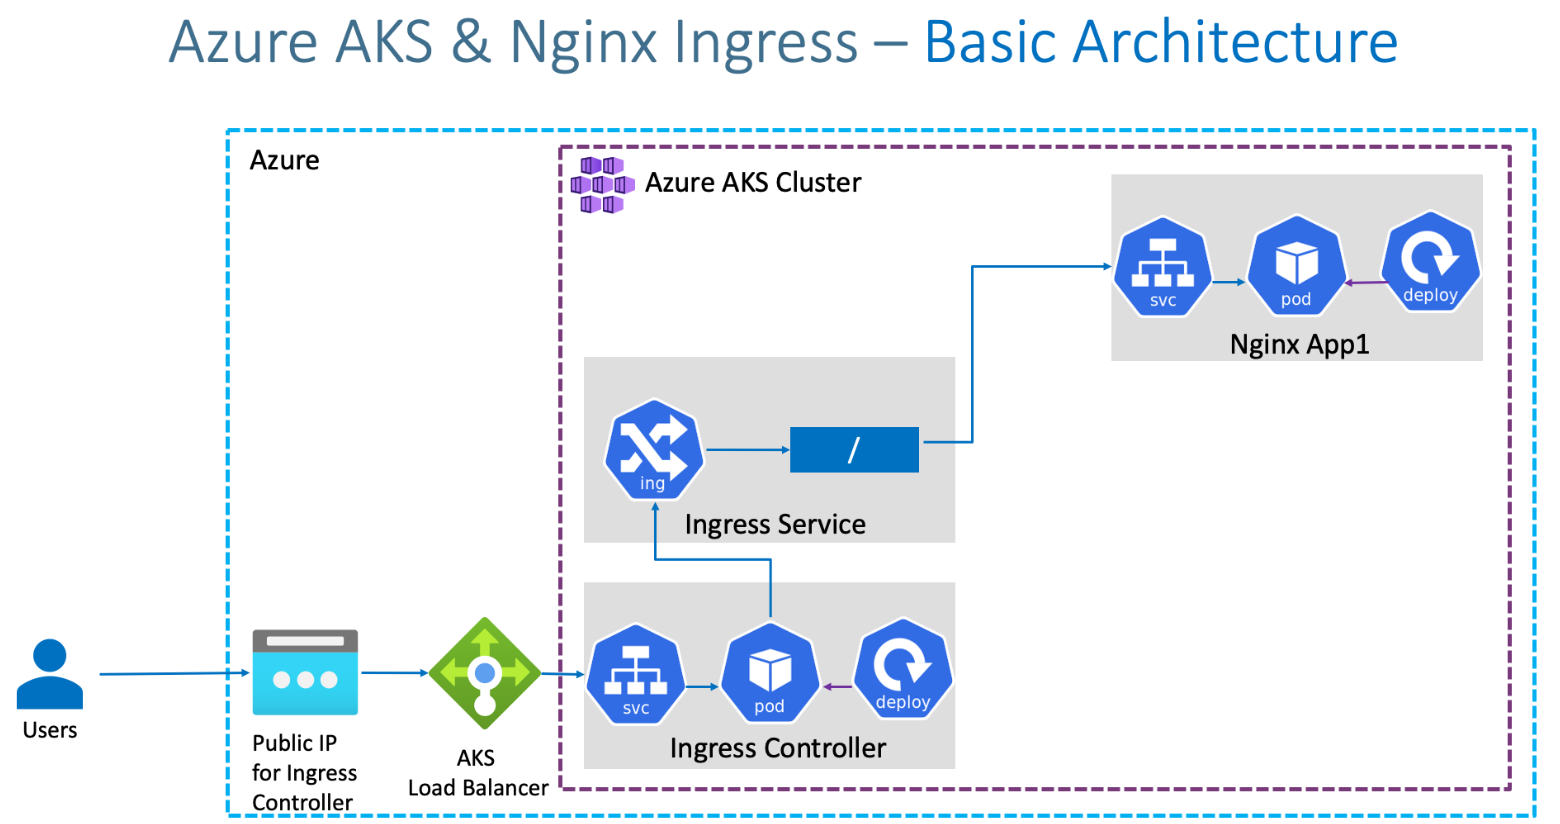
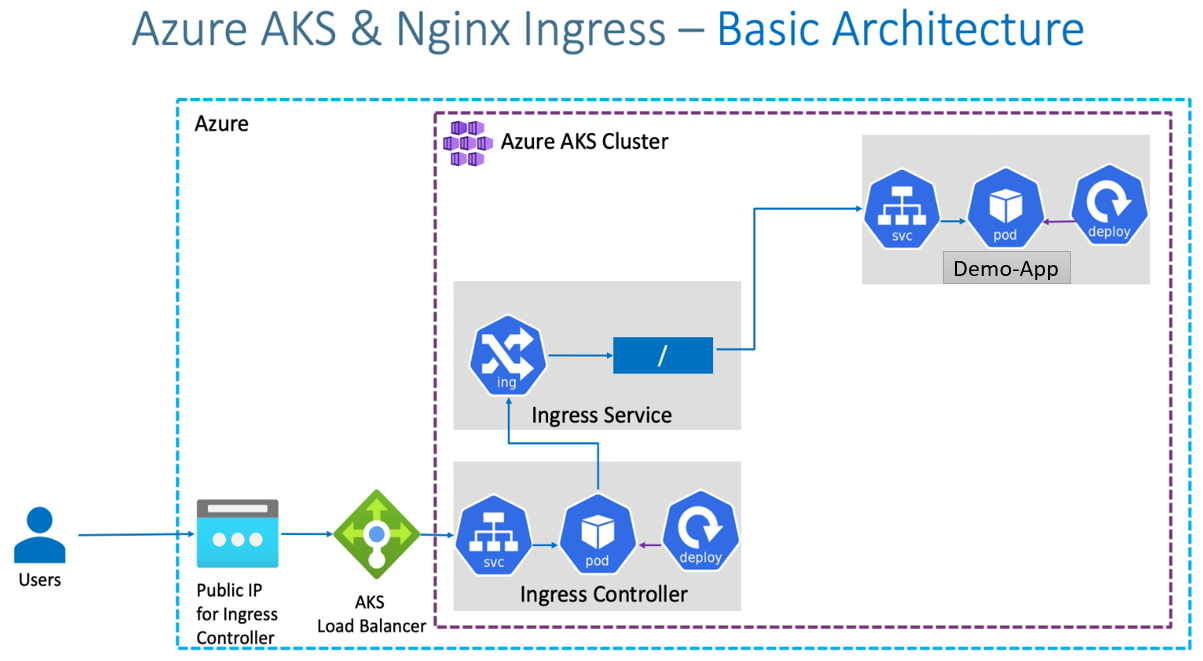
update document and architecture diagram

Changed region(s): [[0.0, 0.121, 1.0, 0.9985], [0.0923, 0.0, 0.9227, 0.0908]]

diff --git a/aks-cluster/02-Ingress/ingress-nginx-README.md b/aks-cluster/02-Ingress/ingress-nginx-README.md
@@ -2,7 +2,7 @@
 
 ## 01: Introduction
 ### Ingress Basic Architecture
-[![Image]
+[![Image](https://github.com/nasserahmad/AKS-Cluster-With-Demoapp-HelmChart/blob/main/aks-cluster/02-Ingress/basic-arch-png/basic-arch.PNG)
 
 ### What are we going to configure and install to implement ingress architecture?
 - We are going to create a **Static Public IP** for Ingress in Azure AKS

diff --git a/aks-cluster/02-Ingress/nginx-ingress-README.md b/aks-cluster/02-Ingress/nginx-ingress-README.md
@@ -2,6 +2,7 @@
 
 ## 01: Introduction
 ### Ingress Basic Architecture
+[![Image](https://github.com/nasserahmad/AKS-Cluster-With-Demoapp-HelmChart/blob/main/aks-cluster/02-Ingress/basic-arch-png/basic-arch.PNG)
 
 ### What are we going to configure and install to implement ingress architecture?
 

diff --git a/aks-cluster/05-Ingress-SSL-with-LetsEncrypt/ingress-nginx-README.md b/aks-cluster/05-Ingress-SSL-with-LetsEncrypt/ingress-nginx-README.md
@@ -3,7 +3,7 @@
 ## 01: Introduction
 - Implement SSL using Lets Encrypt
 
-[![Image]
+[![Image](https://github.com/nasserahmad/AKS-Cluster-With-Demoapp-HelmChart/blob/main/aks-cluster/05-Ingress-SSL-with-LetsEncrypt/arch-png/ingress-ssl.PNG)
 
 ## 02: Install Cert Manager
 ```t

diff --git a/aks-cluster/05-Ingress-SSL-with-LetsEncrypt/nginx-ingress-README.md b/aks-cluster/05-Ingress-SSL-with-LetsEncrypt/nginx-ingress-README.md
@@ -3,7 +3,7 @@
 ## 01: Introduction
 - Implement SSL using Lets Encrypt
 
-[![Image]
+[![Image](https://github.com/nasserahmad/AKS-Cluster-With-Demoapp-HelmChart/blob/main/aks-cluster/05-Ingress-SSL-with-LetsEncrypt/arch-png/ingress-ssl.PNG)
 
 ## 02: Install Cert Manager
 ```t
